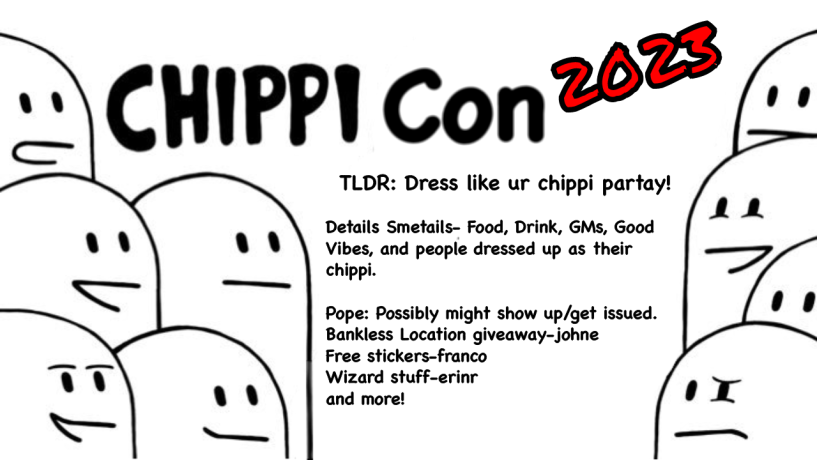
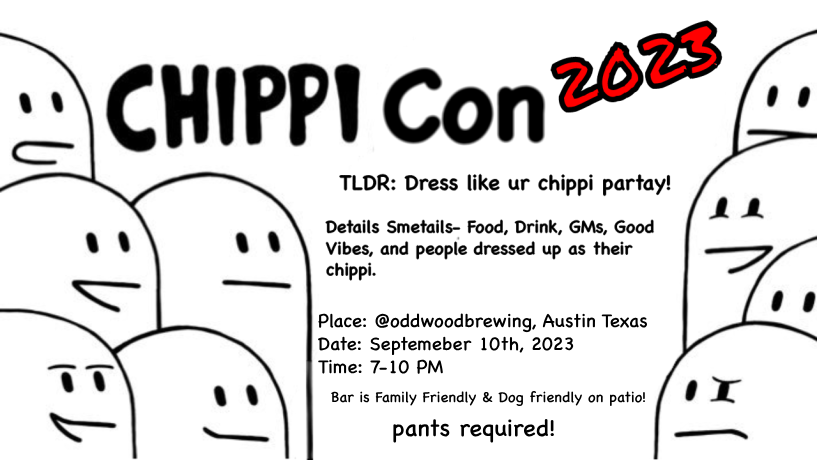
updated details img, cover page, and seo

Changed region(s): [[0.3672, 0.6696, 0.7956, 0.8826], [0.459, 0.913, 0.7038, 0.9739]]

diff --git a/src/App.js b/src/App.js
@@ -3,7 +3,8 @@ import "./App.css";
 import NavBar from "./NavBar";
 import chippi1 from "./img/chippi1.png";
 import chippi2 from "./img/chippi2.png";
-import austin from "./img/austin.png";
+import txchippi from "./img/txchippi.png";
+
 import Footer from "./Footer";
 
 function App() {
@@ -12,7 +13,7 @@ function App() {
       <NavBar />
       <div className="">
         <img src={chippi1} alt="chippi crowd" className="background-left " />
-        <img src={austin} className="austin" alt="texas" />
+        <img src={txchippi} className="austin" alt="texas" />
         <img src={chippi2} alt="chippi crowd" className="background-right" />
       </div>
       <Footer />

diff --git a/public/index.html b/public/index.html
@@ -22,7 +22,7 @@
     />
     <meta
       property="og:image"
-      content="https://uploads-ssl.webflow.com/625f6bd624d1ce4551f4b4c8/64a343e5bf9eb5d9e2dd7987_details.png"
+      content="https://uploads-ssl.webflow.com/625f6bd624d1ce4551f4b4c8/64aafbb47a03f6aabf531fba_details.png"
     />
 
     <!-- Twitter Meta Tags -->
@@ -36,7 +36,7 @@
     />
     <meta
       name="twitter:image"
-      content="https://uploads-ssl.webflow.com/625f6bd624d1ce4551f4b4c8/64a343e5bf9eb5d9e2dd7987_details.png"
+      content="https://uploads-ssl.webflow.com/625f6bd624d1ce4551f4b4c8/64aafbb47a03f6aabf531fba_details.png"
     />
 
     <title>ChippiCon 2023</title>

diff --git a/src/Useful.js b/src/Useful.js
@@ -8,9 +8,6 @@ export default function UsefulDetails() {
   return (
     <div className="Useful">
       <NavBar />
-      <div className="date mt-5">
-        September 10, 2023 <br /> Austin, Texas
-      </div>
       <div className="details-div">
         <img src={details} alt="party details" className="details-image" />
       </div>

diff --git a/src/App.css b/src/App.css
@@ -28,17 +28,17 @@ a:link {
 
 .background-right {
   height: auto;
-  width: 35%;
+  width: 32%;
 }
 
 .background-left {
   height: auto;
-  width: 35%;
+  width: 32%;
 }
 
 .austin {
   height: auto;
-  width: 30%;
+  width: 36%;
 }
 
 .email-entry {
